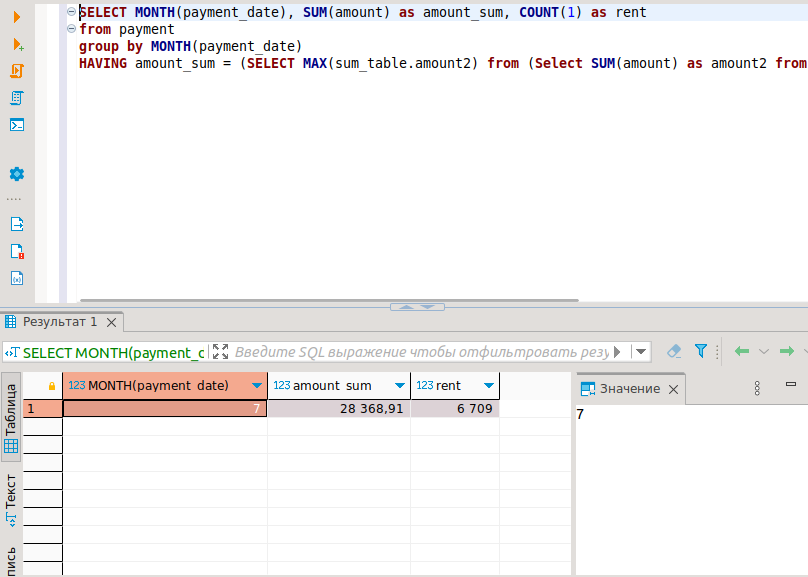
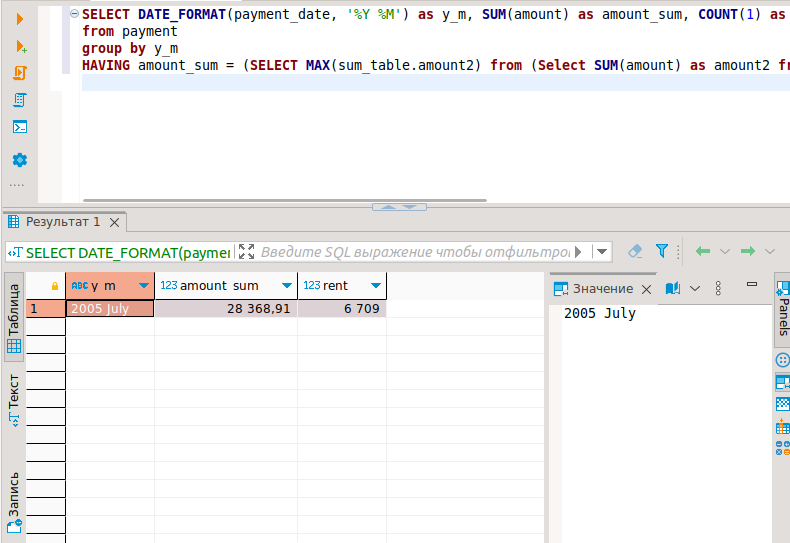
SQL.Part2

diff --git a/README.md b/README.md
@@ -33,10 +33,10 @@ WHERE `length` > (SELECT AVG(`length`) FROM film)
 ### Получите информацию, за какой месяц была получена наибольшая сумма платежей, и добавьте информацию по количеству аренд за этот месяц.
 
 ```java
-SELECT MONTH(payment_date), SUM(amount) as amount_sum, COUNT(1) as rent 
+SELECT DATE_FORMAT(payment_date, '%Y %M') as y_m, SUM(amount) as amount_sum, COUNT(1) as rent 
 from payment
-group by MONTH(payment_date)
-HAVING amount_sum = (SELECT MAX(sum_table.amount2) from (Select SUM(amount) as amount2 from payment group by MONTH(payment_date)) sum_table)
+group by y_m
+HAVING amount_sum = (SELECT MAX(sum_table.amount2) from (Select SUM(amount) as amount2 from payment group by DATE_FORMAT(payment_date, '%Y %M')) sum_table)
 ```
 
 ![alt text](https://github.com/rus42/SQL.Part2/blob/main/Task_3.png)
